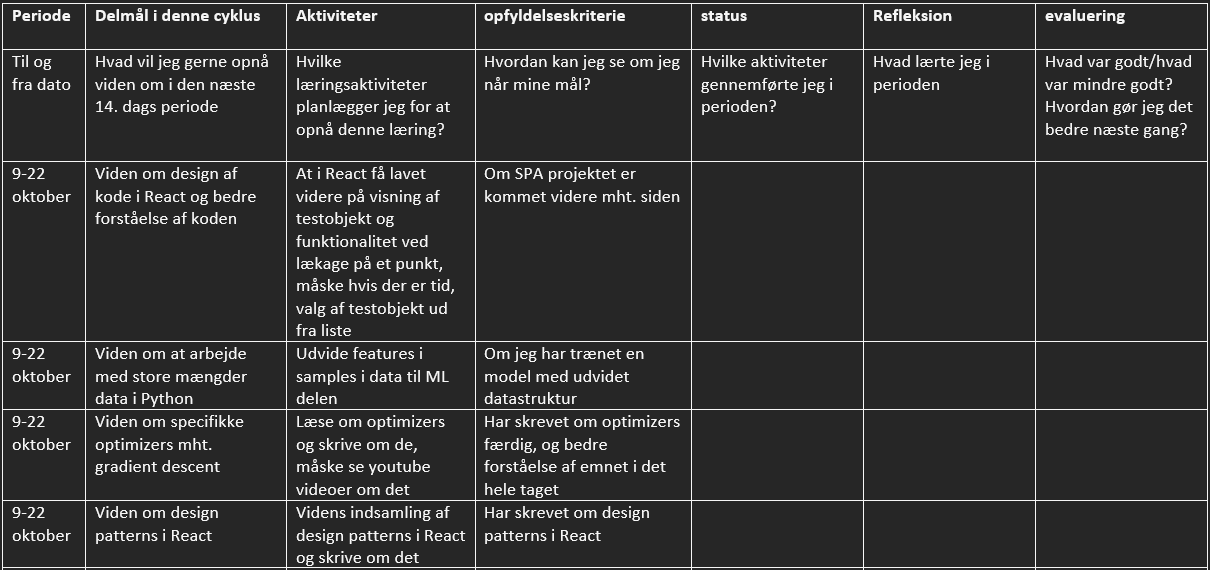
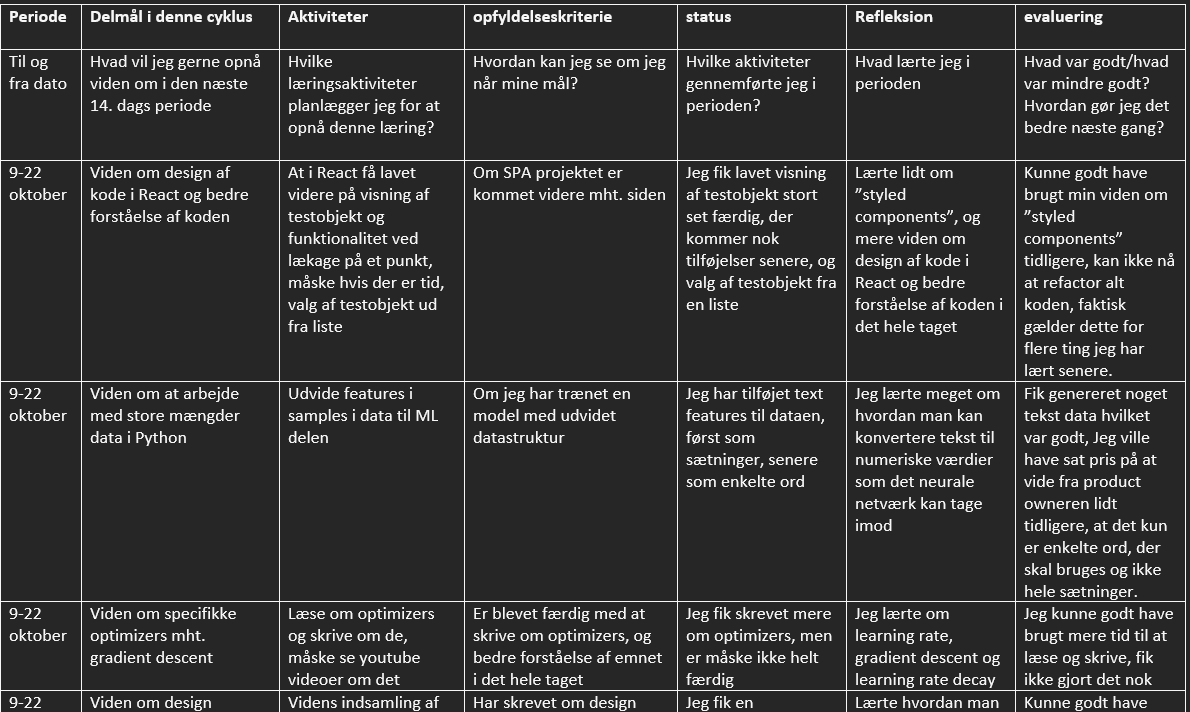
partgoal5 og nnfs edit

Changed region(s): [[0.0, 0.0, 1.0, 1.0]]

diff --git a/_posts/2023-08-21-neuralnetworksfromscratch.html b/_posts/2023-08-21-neuralnetworksfromscratch.html
@@ -70,9 +70,11 @@ background: "/img/posts/Screenshot.png"
   kan få en fejl ved det. Man undgår dette ved at minusse det største tal i
   outputtet med hvert nummer, derefter kan man tage det som eksponent til e.
   Efter overflow prevention nomaliserer man de numre man får fra den
-  eksponentielle funktion, ved at dividere hvert nummer med summen af numrene
-  fra outputs. Så softmax funktionen er at eksponere output numrene fra det
-  sidste lag og derefter normalisere dem.
+  eksponentielle funktion. Efter at have beregnet den eksponentielle værdi for
+  hvert element, skal vi normalisere disse værdier, så de alle tilsammen giver
+  1. Dette gøres ved at dividere hver eksponentielle værdi med summen af alle de
+  eksponentielle værdier. Så softmax funktionen er at eksponere output numrene
+  fra det sidste lag og derefter normalisere dem.
 </p>
 <img src="/img/posts/softmax.png" style="max-width: 100%" />
 
@@ -103,8 +105,22 @@ background: "/img/posts/Screenshot.png"
   -log(prediction), hvor prediction er den klasse der bliver forudsagt i forhold
   til den sande klasse, i hvert tilfælde. Så jo sikre forudsigelsen er jo mindre
   er loss, og omvendt jo mindre tallet for sikkerheden af forudsigelsen er, jo
-  højere er loss. Fx -log(0.7) = 0.36 og -log(0.5) = 0.69. I hver række i
-  batchen
+  højere er loss. Fx -log(0.7) = 0.36 og -log(0.5) = 0.69. Hvis vi kigger på
+  hvordan loss bliver udregnet, så er det -y * log(p), hvor y er den faktiske
+  klasse, og p er forudsigelsen/prediction. Den faktiske klasse bliver ofte
+  repræsenteret som en one-hot encoded (fx [0,1,0]). Her vil de fleste værdier
+  være 0, fordi den faktiske klasse er markeret med 1, mens de andre klasser er
+  markeret med 0. Dette svarer til at se på −1 * log(prediction), eller bare
+  -log(p), hvor y er 1, og hvor p er "prediction" som er sandsynligheden, som
+  modellen forudsiger er den faktiske klasse. Hvis vores model er ret sikker og
+  tildeler en sandsynlighed på p = 0.9 til den faktiske klasse, vil tabet kun
+  være omkring 0.11. Hvis modellen derimod er usikker og giver en sandsynlighed
+  på p = 0.5, stiger tabet til 0.69. Og hvis modellen næsten er sikker på, at
+  det er den forkerte klasse ved at give en meget lav sandsynlighed som p = 0.1
+  til den rigtige klasse, vil tabet være hele 2.3. Dette illustrerer, hvordan
+  loss funktionen Categorical Cross-Entropy straffer modellen for at være for
+  sikker på forkerte forudsigelser, og opfordrer den til at lave bedre
+  forudsigelser.
 </p>
 
 <p>

diff --git a/_posts/2023-08-16-partgoals5.html b/_posts/2023-08-16-partgoals5.html
@@ -12,16 +12,49 @@ background: "/img/posts/kanban.png"
   på et punkt, måske hvis der er tid, valg af testobjekt ud fra liste
 </p>
 <p>
+  Jeg fik lavet visning af testobjekt stort set færdig, der kommer nok
+  tilføjelser senere, og valg af testobjekt fra en liste. Jeg Lærte lidt om
+  ”styled components”, og fik mere viden om design af kode i React og en bedre
+  forståelse af koden i det hele taget. Jeg kunne godt have brugt min viden om
+  ”styled components” tidligere, fordi jeg nu ikke kan nå at refactor alt koden
+  til at inkludere dette design pattern.
+</p>
+<br />
+<p>
   Delmål 2: Viden om at arbejde med store mængder data i Python, ved at udvide
   features i samples i data til ML delen
 </p>
+<p>
+  Jeg har tilføjet tekst features til dataen, først i form af hele sætninger og
+  senere som enkelte ord. Jeg opnåede en fundamental forståelse af, hvordan man
+  omdanner tekst til numeriske værdier, så det kan behandles af det neurale
+  netværk. Selvom jeg med fik genereret tekstdata og nåede dette mål, ville det
+  have været nyttigt, hvis firmaet vi samarbejder med havde informeret mig
+  tidligere om, at kun enkelte ord var nødvendige frem for hele sætninger.
+</p>
+<br />
 <p>
   Delmål 3: Viden om specifikke optimizers mht. gradient descent, ved at læse om
   optimizers og skrive om de, måske se youtube videoer om det
 </p>
 <p>
+  Jeg fik skrevet mere om optimizers, men er måske ikke helt færdig. Jeg lærte
+  om learning rate, gradient descent og learning rate decay. Jeg kunne godt have
+  brugt mere tid til at læse og skrive, og fik ikke gjort det nok.
+</p>
+<br />
+<p>
   Delmål 4: Viden om design patterns i React, ved hjælp af videns indsamling og
   ved at skrive om det
 </p>
+<p>
+  Jeg fik en fundamental forståelse af ”styled components”, en React pattern, og
+  skrevet lidt om det, men blev ikke færdig. Jeg lærte også hvordan man kan
+  implementere ”styled components”, fx en splitscreen komponent, dette gør koden
+  mere genanvendelig. Jeg kunne godt have brugt mere tid til at skrive om det og
+  fordybe mig, måske også omkring andre design patterns, men forventer at lære
+  flere i de næste sprint/delmål.
+</p>
 
 <img src="/img/posts/delmål5.png" style="max-width: 100%" />
+<img src="/img/posts/delmål5part2.png" style="max-width: 100%" />
